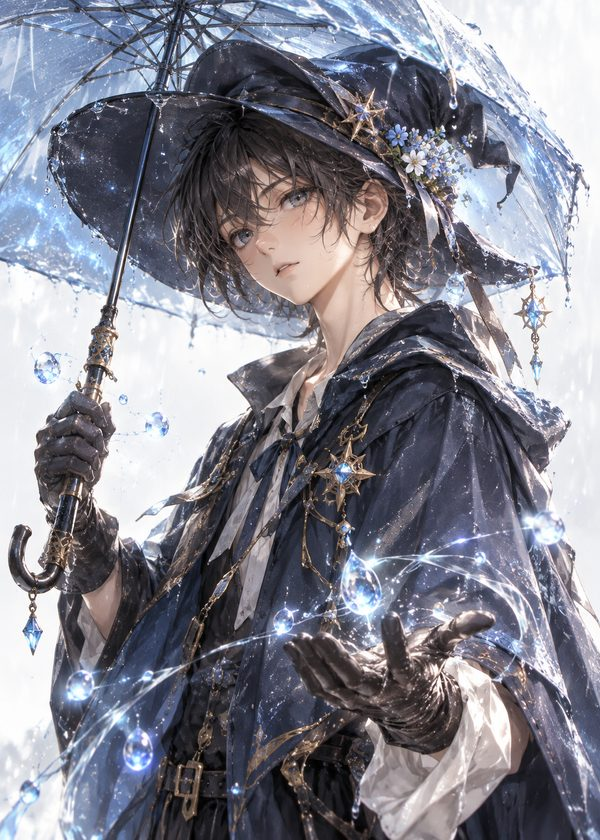
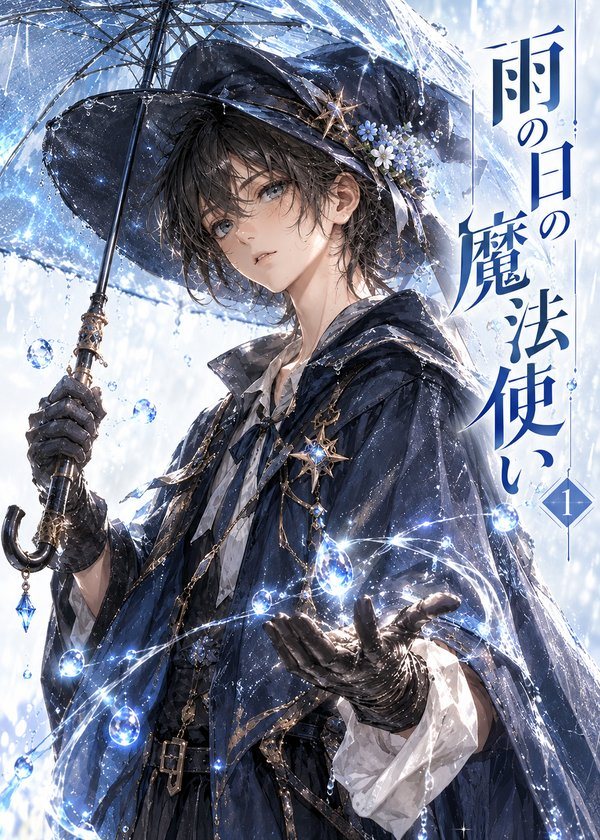
表紙をタイトル入りに差し替え、作品名を更新

diff --git a/manga-bookcase/index.html b/manga-bookcase/index.html
@@ -759,7 +759,7 @@ footer a:hover{text-decoration:underline}
   // [作品名, 冊数, 未読数, 背表紙番号] ※作品名はすべて架空
   var B={
     hoshi:["星降る町の喫茶店",4,1,3], tetsu:["鉄と花",2,0,1], todai:["灯台守の日記",3,0,5],
-    ame:["雨の日の魔法使い",5,2,7], neko:["ねこ町通信",1,0,10], gin:["白銀のリフレイン",6,0,11],
+    ame:["雨の日の魔法使い",5,2,7], neko:["ねこ町通信",1,0,10], gin:["リフレイン",6,0,11],
     doragon:["月曜日のドラゴン",2,1,4], houka:["放課後シグナル",3,0,2], shinkai:["深海図書館",1,1,8],
     natsu:["夏の終わりの方程式",4,0,9], kita:["北風レストラン",2,0,6], hana:["花と剣の王国",7,0,1],
     sora:["空色ポストマン",3,0,2], yoru:["夜明けの観測所",2,0,8], kitsune:["きつね坂の古書店",1,1,10], mori:["森のアトリエ便り",2,0,6], kaze:["風見鶏ラジオ",4,0,3], hoshi2:["星読みの少女",3,1,9], koori:["氷の城と千の鍵",5,0,11], yumi:["弓張月の旅人",2,0,4],
@@ -792,8 +792,8 @@ footer a:hover{text-decoration:underline}
 
   // 表紙一覧（img/cover-01.jpg〜 を置くとその画像を表示。無ければ色＋タイトル）
   var CV=[["星降る町の喫茶店","#2f5aa8","#8fb7e8"],["鉄と花","#a81b31","#e7a08e"],["灯台守の日記","#c8b98d","#4f7fa8"],["雨の日の魔法使い","#5e3f86","#9f8fd6",2],
-          ["ねこ町通信","#d2832f","#f2d38a"],["白銀のリフレイン","#2b3445","#b8c6d6"],["月曜日のドラゴン","#2d8e88","#e9c46a",1],["放課後シグナル","#e26062","#ffd6a0"],
-          ["北風レストラン","#7a8f6a","#e8e1cf"],["夏の終わりの方程式","#3c7fc0","#f4e1a1"],["深海図書館","#123a5c","#3fa7b5",1],["花と剣の王国","#8c2440","#f0b9c4"],
+          ["ねこ町通信","#d2832f","#f2d38a"],["リフレイン","#2b3445","#b8c6d6"],["月曜日のドラゴン","#2d8e88","#e9c46a",1],["放課後シグナル","#e26062","#ffd6a0"],
+          ["北風レストランへようこそ","#7a8f6a","#e8e1cf"],["夏の終わりの方程式","#3c7fc0","#f4e1a1"],["深海図書館","#123a5c","#3fa7b5",1],["花と剣の王国","#8c2440","#f0b9c4"],
           ["空色ポストマン","#4aa3d9","#ffffff"],["夜明けの観測所","#26365c","#f3a65a"],["きつね坂の古書店","#b4562b","#f1d7a6",1],["はじめての一年","#e8a0a8","#fff3e0"]];
   document.querySelectorAll("[data-covers]").forEach(function(h){
     var n=+(h.getAttribute("data-count")||CV.length);
